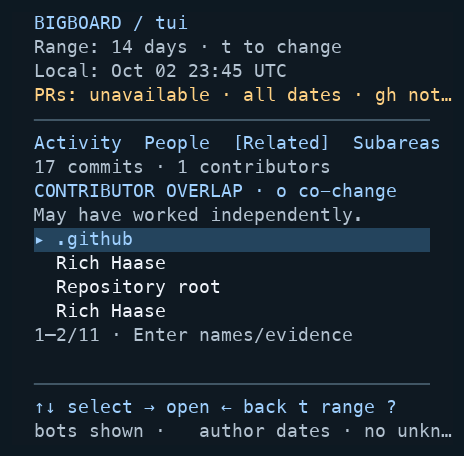
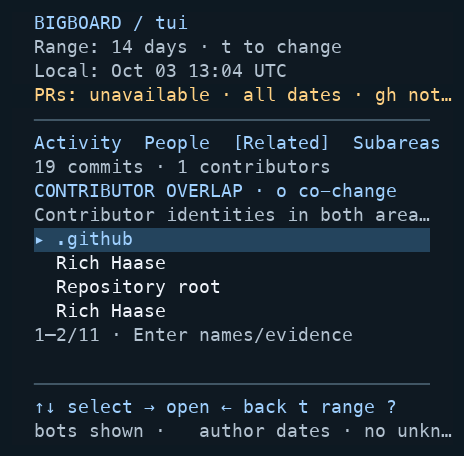
Match PR overlay to visible scope and remove collaboration assessment

diff --git a/tui/pr_selection_test.go b/tui/pr_selection_test.go
@@ -1,0 +1,98 @@
+package tui
+
+import (
+	"strings"
+	"testing"
+
+	gh "github.com/richhaase/bigboard/github"
+)
+
+func prOnlySelectionFixture() Model {
+	m := prFixture()
+	m.width, m.height = 120, 36
+	m.allRecords = nil
+	m.recomputeAuthors()
+	m.rebuildAreaDefinitions()
+	snapshot := m.prState.snapshots["org/repo"]
+	snapshot.prs = []gh.PullRequest{
+		{Repo: "org/repo", Number: 260, Title: "Bump sys", Files: []gh.File{{Path: "go.mod"}}, FilesComplete: true, ContextComplete: true},
+		{Repo: "org/repo", Number: 261, Title: "Bump term", Files: []gh.File{{Path: "go.mod"}}, FilesComplete: true, ContextComplete: true},
+		{Repo: "org/repo", Number: 262, Title: "Update docs", Files: []gh.File{{Path: "docs/guide.md"}}, FilesComplete: true, ContextComplete: true},
+	}
+	m.prState.snapshots["org/repo"] = snapshot
+	return m
+}
+
+func TestPRScopeUsesVisibleOverviewSelection(t *testing.T) {
+	for _, tc := range []struct {
+		name, selected, query string
+		want                  []int
+	}{
+		{"default PR-only root", "", "", []int{260, 261}},
+		{"removed selection", "removed-area", "", []int{260, 261}},
+		{"filtered selection", "root", "docs", []int{262}},
+		{"no matching rows", "root", "does-not-exist", nil},
+	} {
+		t.Run(tc.name, func(t *testing.T) {
+			m := prOnlySelectionFixture()
+			m.areaRepoID, m.selectedAreaID = "/api", tc.selected
+			m.glance.overviewQueries[1] = tc.query
+			_ = m.View() // Rendering must not be relied on to mutate model selection.
+			next, cmd := m.handleAwarenessKey(key("p"))
+			m = next.(Model)
+			if cmd != nil {
+				t.Fatal("opening PRs started an external command")
+			}
+			got := m.visiblePRs()
+			if len(got) != len(tc.want) {
+				t.Fatalf("scope %q: got %+v, want %v", m.selectedAreaID, got, tc.want)
+			}
+			for i, n := range tc.want {
+				if got[i].Number != n {
+					t.Fatalf("got %d, want %d", got[i].Number, n)
+				}
+			}
+			if len(tc.want) == 0 && !strings.Contains(m.View(), "No PRs to display") {
+				t.Fatal("empty filter displays unrelated PRs")
+			}
+		})
+	}
+}
+
+func TestPRScopeImmediatelyAfterRepositoryEntry(t *testing.T) {
+	m := prOnlySelectionFixture()
+	m.selectedRepoID = "/api"
+	m = pressAwareness(m, "enter")
+	if m.areaRepoID != "/api" || m.selectedAreaID != "" {
+		t.Fatal("fixture must enter an unresolved area overview")
+	}
+	if !strings.Contains(m.View(), "2 open") {
+		t.Fatal("root preview lacks PR evidence")
+	}
+	m = pressAwareness(m, "p")
+	if len(m.visiblePRs()) != 2 {
+		t.Fatalf("immediate p lost root PRs: %s", m.View())
+	}
+}
+
+func TestPRScopeRepositoryFallbackAndAllInventory(t *testing.T) {
+	m := prOnlySelectionFixture()
+	m.selectedRepoID = "removed-repo"
+	// Repository query determines the visible row, just as the Worklist does.
+	m.glance.overviewQueries[0] = "api"
+	m = pressAwareness(m, "p")
+	if m.selectedRepoID != "/api" || len(m.visiblePRs()) != 3 {
+		t.Fatal("repository p did not match visible selection")
+	}
+	m = pressAwareness(m, "esc")
+	m.glance.overviewQueries[0] = "no match"
+	m = pressAwareness(m, "p")
+	if len(m.visiblePRs()) != 0 {
+		t.Fatal("empty repository filter leaked old selection")
+	}
+	m = pressAwareness(m, "esc")
+	m = pressAwareness(m, "P")
+	if len(m.visiblePRs()) != 3 {
+		t.Fatal("all-repository inventory was filtered by overview query")
+	}
+}

diff --git a/tui/worklist_related.go b/tui/worklist_related.go
@@ -82,14 +82,6 @@ func (m Model) commitAreaNames(r git.CommitRecord) []string {
 	return names
 }
 
-func collaborationEvidenceLines() []string {
-	return []string{
-		StyleTitle.Render("DIRECT COLLABORATION EVIDENCE / unknown"),
-		StyleAmber.Render("Review participation: unavailable · Co-authorship: not assessed"),
-		StyleDimWhite.Render("Co-change and contributor overlap do not establish collaboration."),
-	}
-}
-
 func (m Model) sharedContributorNames(area stats.WorkArea) string {
 	source := make(map[string]bool)
 	for _, p := range m.glanceAreaPeople() {
@@ -116,7 +108,7 @@ func (m Model) worklistRelatedLines(width, height int) []string {
 	}
 	rows := m.glanceCochangedAreas()
 	selected := m.glanceSelected(m.glanceDetailIDs())
-	lines := []string{StyleTitle.Render("WHAT CHANGED TOGETHER / same commit"), StyleDimWhite.Render("Co-change may be incidental · o contributor overlap")}
+	lines := []string{StyleTitle.Render("WHAT CHANGED TOGETHER / same commit"), StyleDimWhite.Render("o contributor overlap")}
 	compact := height < 20 || width < 76
 	budget := max(1, min(5, height-19))
 	if compact {
@@ -152,7 +144,7 @@ func (m Model) worklistRelatedLines(width, height int) []string {
 	if !compact {
 		lines = append(lines, worklistRule.Render(strings.Repeat("─", width)), StyleTitle.Render("CONTRIBUTOR OVERLAP / identities appearing in both areas"))
 		overlap := m.glanceRelatedAreas()
-		limit := max(0, height-len(lines)-6)
+		limit := max(0, height-len(lines)-2)
 		for _, r := range overlap[:min(len(overlap), limit)] {
 			lines = append(lines, padCells(displayText(r.area.Name), areaWidth+2)+" "+m.sharedContributorNames(r.area))
 		}
@@ -162,9 +154,7 @@ func (m Model) worklistRelatedLines(width, height int) []string {
 		if len(overlap) == 0 {
 			lines = append(lines, "No contributor overlap in this range.")
 		}
-		lines = append(lines, StyleDimWhite.Render("Shared contributors may have worked independently."), worklistRule.Render(strings.Repeat("─", width)))
 	}
-	lines = append(lines, collaborationEvidenceLines()...)
 	for i := range lines {
 		lines[i] = "  " + ansi.Truncate(lines[i], width, "…")
 	}
@@ -176,7 +166,7 @@ func (m Model) worklistRelatedLines(width, height int) []string {
 func (m Model) worklistOverlapLines(width, height int) []string {
 	rows := m.glanceRelatedAreas()
 	selected := m.glanceSelected(m.glanceDetailIDs())
-	lines := []string{StyleTitle.Render("CONTRIBUTOR OVERLAP · o co-change"), StyleDimWhite.Render("May have worked independently.")}
+	lines := []string{StyleTitle.Render("CONTRIBUTOR OVERLAP · o co-change"), StyleDimWhite.Render("Contributor identities in both areas.")}
 	budget := max(1, (height-4)/2)
 	start := max(0, min(selected-budget/2, len(rows)-budget))
 	end := min(len(rows), start+budget)

diff --git a/tui/worklist_related_test.go b/tui/worklist_related_test.go
@@ -30,7 +30,7 @@ func TestRelatedSeparatesCommitAndContributorEvidence(t *testing.T) {
 	}
 	m.width, m.height = 120, 36
 	view := ansi.Strip(m.View())
-	for _, want := range []string{"WHAT CHANGED TOGETHER", "Renew sessions", "Changed areas: apps/web · services/auth", "CONTRIBUTOR OVERLAP", "services/billing", "Ada", "may have worked independently", "Review participation: unavailable", "Co-authorship: not assessed"} {
+	for _, want := range []string{"WHAT CHANGED TOGETHER", "Renew sessions", "Changed areas: apps/web · services/auth", "CONTRIBUTOR OVERLAP", "services/billing", "Ada"} {
 		if !strings.Contains(view, want) {
 			t.Fatalf("missing %q:\n%s", want, view)
 		}
@@ -115,7 +115,7 @@ func TestOverlapOnlyDrilldownNeverClaimsSharedCommits(t *testing.T) {
 		t.Fatal("overlap must open canonical People")
 	}
 	view := ansi.Strip(m.View())
-	if strings.Contains(view, "Commits touching both") || strings.Count(view, "Shared contributors · may have worked independently") != 1 {
+	if strings.Contains(view, "Commits touching both") || strings.Count(view, "Contributor identities in both areas") != 1 {
 		t.Fatalf("overlap misrepresented:\n%s", view)
 	}
 	m = pressAwareness(m, "1")
@@ -130,5 +130,22 @@ func TestOverlapOnlyDrilldownNeverClaimsSharedCommits(t *testing.T) {
 	m.width, m.height = 40, 18
 	if !strings.Contains(m.View(), "Ada") {
 		t.Fatal("compact overlap hides contributor names")
+	}
+}
+
+func TestWorklistHasNoCollaborationAssessment(t *testing.T) {
+	m := monorepoFixture()
+	m.width, m.height = 120, 36
+	m.selectedAreaID = "auto:services/auth"
+	for _, key := range []string{"", "enter", "3", "o", "enter"} {
+		if key != "" {
+			m = pressAwareness(m, key)
+		}
+		view := strings.ToLower(ansi.Strip(m.View()))
+		for _, removed := range []string{"collaboration", "review participation", "co-authorship", "worked independently", "incidental"} {
+			if strings.Contains(view, removed) {
+				t.Fatalf("%s retained removed assessment %q", key, removed)
+			}
+		}
 	}
 }

diff --git a/tui/worklist_evidence.go b/tui/worklist_evidence.go
@@ -102,8 +102,6 @@ func (m Model) worklistEvidence(r repositoryActivity, width, height int, focused
 		pr := prs[0]
 		lines = append(lines, fmt.Sprintf("#%d %s · p full inventory", pr.Number, displayText(pr.Title)))
 	}
-	lines = append(lines, "")
-	lines = append(lines, collaborationEvidenceLines()...)
 	for i := range lines {
 		lines[i] = "  " + ansi.Truncate(lines[i], width, "…")
 	}
@@ -165,9 +163,9 @@ func (m Model) renderWorklistDetail(width, height int) string {
 		lines = append(lines, StyleCyan.Render("  Activity: "+ansi.Truncate(label, max(1, width-25), "…")+" · Esc clears"))
 	}
 	if m.glance.frame.relatedFromID != "" {
-		label := "Commits touching both areas · not collaboration"
+		label := "Commits touching both areas"
 		if m.glance.frame.relatedPeople {
-			label = "Shared contributors · may have worked independently"
+			label = "Contributor identities in both areas"
 		}
 		lines = append(lines, StyleDimWhite.Render("  "+label))
 	}

diff --git a/tui/glance.go b/tui/glance.go
@@ -152,6 +152,16 @@ func (m Model) handleAwarenessKey(msg tea.KeyMsg) (tea.Model, tea.Cmd) {
 	}
 	switch key {
 	case "p", "P":
+		if key == "p" && !m.glance.detailOpen {
+			// View resolves the highlighted row on a value copy. Persist the same
+			// filtered/sorted selection before the overlay reads its scope.
+			rows := m.glanceRepositories()
+			if len(rows) == 0 {
+				m.setSelectedScopeID("")
+			} else {
+				m.selectedRepository(rows)
+			}
+		}
 		m.showPRs = true
 		m.prAll = key == "P"
 		m.prDetail = false

diff --git a/tui/worklist_regression_test.go b/tui/worklist_regression_test.go
@@ -102,7 +102,7 @@ func TestWorklistRelatedAndParentPRProvenance(t *testing.T) {
 	for _, key := range []string{"enter", "3", "enter", "1"} {
 		m = pressAwareness(m, key)
 	}
-	if !strings.Contains(m.View(), "Commits touching both areas · not collaboration") {
+	if !strings.Contains(m.View(), "Commits touching both areas") {
 		t.Fatal("related activity lost provenance")
 	}
 	m = glanceBusyFixture()

diff --git a/tui/awareness_test.go b/tui/awareness_test.go
@@ -69,7 +69,7 @@ func TestAwarenessFocusAndEvidence(t *testing.T) {
 		t.Fatalf("focus=%s", m.personID)
 	}
 	out := m.View()
-	for _, text := range []string{"Fix login", "DIRECT COLLABORATION EVIDENCE", "Local:"} {
+	for _, text := range []string{"Fix login", "RECENT COMMITS", "Local:"} {
 		if !strings.Contains(out, text) {
 			t.Fatalf("missing %q:\n%s", text, out)
 		}

diff --git a/docs/visual-guide.md b/docs/visual-guide.md
@@ -36,8 +36,8 @@ Read the top list **area → latest contributor + others → latest commit → a
 - `t` opens the range picker, `b` toggles bots, and `/` searches the active list
 
 One commit can touch several areas, so **area counts overlap and must not be
-summed**. Shared contributors describe historical overlap, not live presence,
-ownership, or proof of collaboration. GitHub handles stay separate from canonical
+summed**. Shared contributors describe historical overlap, not live presence
+or ownership. GitHub handles stay separate from canonical
 Git identities. Historical paths can appear even after removal from the checkout.
 
 ## Choose a local range
@@ -101,11 +101,11 @@ filters GitHub PRs.
 
 ## Related: separate co-change from contributor overlap
 
-![Related at 120 by 36 with exact shared-commit counts, latest title, selected commit evidence, contributor names and a separate collaboration status](images/worklist-related.png)
+![Related at 120 by 36 with exact shared-commit counts, latest title, selected commit evidence and contributor names](images/worklist-related.png)
 
 *Related, 120 × 36. The main list counts actual commit IDs present in both areas.
 The selected preview shows the latest shared title, author, author time, hash,
-and all affected areas. Co-change can be incidental.*
+and all affected areas.*
 
 Press `3`, select an area, then `Enter` to inspect **only commits touching both**.
 `Enter` again opens the canonical full commit and its changed paths. `Esc`
@@ -114,19 +114,14 @@ filter does not change the Related inventory. Missing commit IDs never count as
 shared evidence.
 
 The separate **Contributor overlap** section names canonical identities present
-in both areas. Those contributors may have worked independently. Press `o` for
+in both areas in the selected range. Press `o` for
 the full scrollable overlap list, including on narrow terminals; `Enter` opens
 its shared names and their identity-filtered Activity. Press `o` again to return
 to co-change.
 
-![40-column scrollable contributor overlap showing names and independent-work provenance](images/worklist-overlap.png)
+![40-column scrollable contributor overlap showing names in both areas](images/worklist-overlap.png)
 
 Overlap-only areas do not appear in the shared-commit list.
-
-**Direct collaboration evidence** remains unknown. These views do not collect
-review participation or assess co-authorship, and a PR review decision is not
-proof of who collaborated. No collaboration is inferred from shared commits or
-contributor overlap, and opening these views makes no network requests.
 
 ## Subareas: refine a path group
 
@@ -179,8 +174,10 @@ competes with commit titles. Retained area-specific PR signals remain visible.
 fetch when known and space permits. Unknown inventory is never shown as zero;
 `p` provides detailed status and any remote retry/cooldown time.
 
-From Worklist, `p` opens the selected repository/parent-area inventory and `P`
-opens all included repositories. PRs use **all open dates**, independent of local
+From Worklist, `p` opens the highlighted repository/parent-area inventory,
+including the default first row immediately after entering a repository. An
+accepted name search changes that visible scope; no matching rows means no
+scoped PRs. `P` opens all included repositories regardless of that search. PRs use **all open dates**, independent of local
 range, bot, person, and commit-search filters. In the PR overlay, `Enter` toggles
 detail, `↑/↓` scrolls, and `Esc` or `p` backs out one level. `R` there refreshes
 **PRs only**; it does not start a local Git scan.
@@ -213,8 +210,10 @@ for search, quit, and overlay behavior.
 
 ## Capture details
 
-The screenshots were captured on October 2, 2026, from the current Worklist and
-Related implementation, scanning public Bigboard history at
+Worklist overview, Activity detail, Related, and contributor-overlap images were
+recaptured on October 3, 2026 after removing the assessment section, scanning
+public Bigboard history at [45ca2c7](https://github.com/richhaase/bigboard/commit/45ca2c746813b14b8ceb6d9b3987ddbf02490af5).
+The other screenshots retain their October 2, 2026 capture, scanning history at
 [d510eb2](https://github.com/richhaase/bigboard/commit/d510eb299b849696ee1402a0ef8294f773b0e384)
 in an isolated local clone named `bigboard`. The capture config sets `since` to
 `14d`; bots remain shown. Images are rendered from actual PTY cell buffers, with

diff --git a/README.md b/README.md
@@ -93,11 +93,9 @@ full subject, canonical contributor identity, timestamp, object ID, and all chan
 paths. People is alphabetical; selecting a person filters Activity. Related lists
 exact commits touching both areas, their counts, and the latest shared title;
 `Enter` opens those commits and then their full changed paths. Contributor overlap
-is separate: names appearing in both areas may have worked independently. Press
+is separate: it lists names appearing in both areas in the selected range. Press
 `o` in Related for its scrollable overlap list, then `Enter` for names and their
-identity-filtered evidence. Direct collaboration has its own status: review
-participation is unavailable and co-authorship is not assessed by these views.
-Neither co-change nor contributor overlap establishes collaboration.
+identity-filtered evidence.
 
 Subareas refines automatic path areas by one literal directory level at a time.
 Direct files are a separate leaf; multi-path commits can appear in several children.

diff --git a/CLAUDE.md b/CLAUDE.md
@@ -88,8 +88,7 @@ p/P keeps the parent area/all-open scope, independent of local filters.
 
 `worklist_related.go` separates exact nonempty shared commit IDs from canonical
 contributor overlap. Related Enter opens shared commits; `o` exposes a scrollable
-name-overlap list whose Enter opens identity-filtered People/Activity. Never infer
-collaboration from either. Review participation is unavailable and co-authorship
-is not assessed in these views. Shared PR unavailability belongs once in the
+name-overlap list whose Enter opens identity-filtered People/Activity. These views show existing people, area, time,
+and commit evidence. Shared PR unavailability belongs once in the
 header; retained scope-specific PR signals remain available. Commit previews show
 titles first, then author/time/hash and affected areas. No extra scans or requests.
